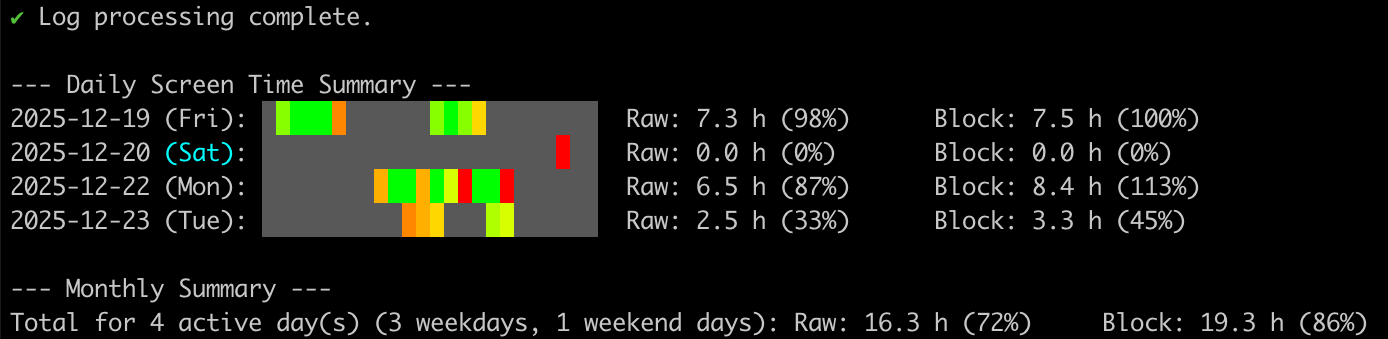
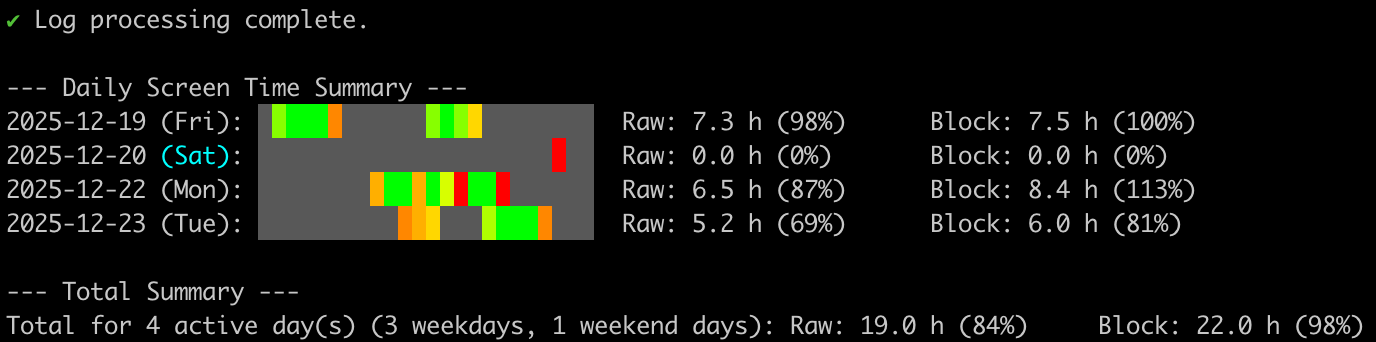
fix: Total summary reference

diff --git a/time_buddy.py b/time_buddy.py
@@ -412,8 +412,8 @@ def get_screen_time(days_back, verbose=False, no_cache=False, include_weekends=F
     for day in sorted_days:
         print_hourly_breakdown(day, daily_hourly_durations[day], daily_block_durations[day], expected_hours)
 
-    # --- Monthly Summary ---
-    print("\n--- Monthly Summary ---")
+    # --- Total Summary ---
+    print("\n--- Total Summary ---")
     for day_data in daily_hourly_durations.values():
         total_actual_hours += sum(day_data.values(), timedelta()).total_seconds() / 3600
 
